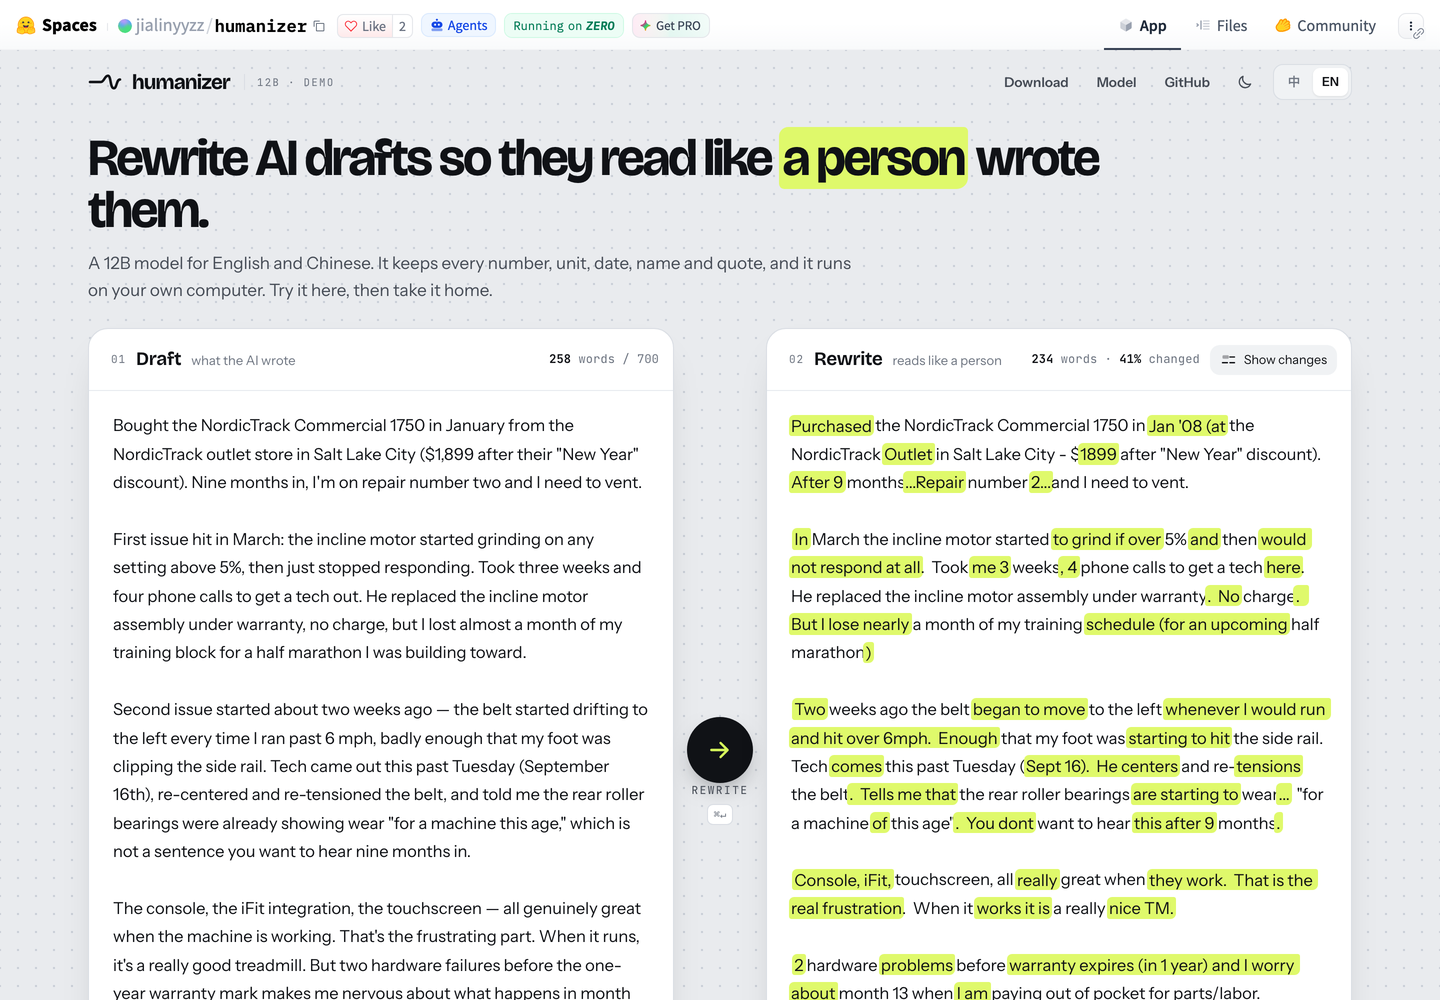
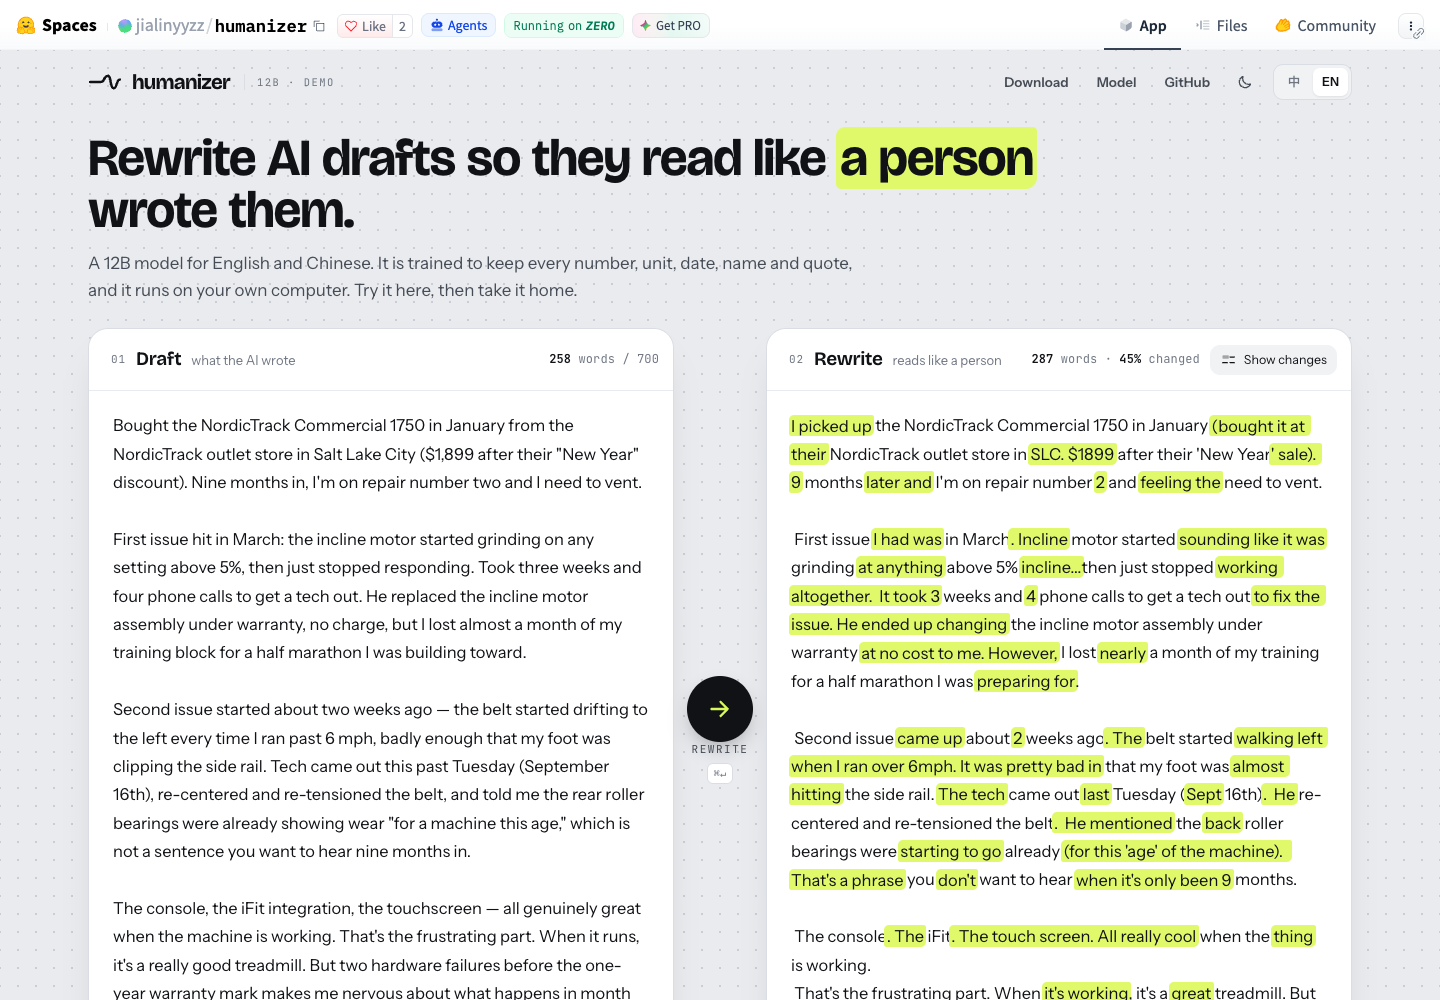
space: RLRt2 numbers and Q8_0 first-sample examples
Stat tiles, results, training and limitations follow the 2026-10-02
measurements. Instant examples are the Q8_0 file's first samples, built
by build_examples.py only from drafts whose first-pass verdict is clean
and that have no listed fix; numbers and names checked by hand.

Claude-Session: https://claude.ai/code/session_018dUyskQQUkZnxRhqQU9hXt

diff --git a/space/page.py b/space/page.py
@@ -108,7 +108,7 @@ def draft_head() -> str:
 
 
 def draft_foot(examples) -> str:
-    short = {"en-email": ("Email", "英文邮件"), "en-reddit": ("Reddit", "Reddit 帖"),
+    short = {"en-email": ("Email", "英文邮件"), "en-review": ("Film review", "影评"),
              "en-essay": ("Essay", "英文作文"), "zh-email": ("中文邮件", "中文邮件"),
              "zh-social": ("中文社交帖", "中文社交帖")}
     btns = "".join(f'<button type="button" class="sample-btn" data-sample="{e["id"]}">{L(*short[e["id"]])}</button>'
@@ -174,10 +174,10 @@ def examples_section(examples) -> str:
     return f"""<section class="sec" id="examples">
   <p class="eyebrow">{L("Examples", "示例")}</p>
   <h2 class="sec-title">{L("Real before and after", "改写前后，真实输出")}</h2>
-  {P("Drafts from our held-out evaluation set, never seen in training. The right side is the released model's first sample, not edited; only whitespace is normalised. "
+  {P("Drafts from our held-out evaluation set, never seen in training. The right side is the first sample from the Q8_0 file you download (llama.cpp, the app's settings), not edited; only whitespace is normalised. "
      "<span class='ins'>Highlight</span> = new wording, <span class='del'>strikethrough</span> = draft wording that was replaced. "
      "We picked these for readability from samples our fact judge passed. Across the whole set the model does sometimes change a detail; how often, and how small, is below.",
-     "草稿来自留出评测集，训练时从没见过。右边是发布版模型的第一发，未经任何修改，只统一了空白。"
+     "草稿来自留出评测集，训练时从没见过。右边是你下载的 Q8_0 文件（llama.cpp，和 App 相同的设置）的第一发，未经任何修改，只统一了空白。"
      "<span class='ins'>荧光笔</span> = 新写的，<span class='del'>删除线</span> = 被改掉的原文。"
      "这几篇是从事实判官判为通过的样本里挑的，为了好读；放到整个评测集上，模型偶尔会改错细节，多常见、错得多小，见下方。",
      "sec-lede")}
@@ -234,8 +234,8 @@ def local_section() -> str:
     <article class="card">
       <div class="card-head">{icon("chip")}<h3>{L("llama.cpp, one line", "llama.cpp 一行命令")}</h3><span class="badge soft">{L("any OS", "任何系统")}</span></div>
       {code_block(llama_cmd)}
-      {P("The first run downloads <code>humanizer-12b-Q8_0.gguf</code> (about 12.7 GB); on a 16 GB machine use <code>humanizer-12b-Q6_K.gguf</code>. This is a text-completion model, not a chat model: send the exact prompt from <code>prompt_format.json</code> to <code>/completion</code> with temperature 1.0, top_p 0.95, top_k 0, min_p 0.",
-         "第一次会下载 <code>humanizer-12b-Q8_0.gguf</code>（约 12.7 GB）；16 GB 内存的机器换成 <code>humanizer-12b-Q6_K.gguf</code>。这是文本续写模型，不是聊天模型：按 <code>prompt_format.json</code> 逐字拼好提示词，发到 <code>/completion</code>，temperature 1.0、top_p 0.95、top_k 0、min_p 0。国内下载慢可以在命令前加 <code>HF_ENDPOINT=https://hf-mirror.com</code>。")}
+      {P("The first run downloads <code>humanizer-12b-Q8_0.gguf</code> (about 12.7 GB); on a 16 GB machine use <code>humanizer-12b-Q6_K.gguf</code> (about 10.0 GB), or <code>humanizer-12b-Q4_K_M.gguf</code> (about 7.6 GB) if disk is tight. This is a text-completion model, not a chat model: send the exact prompt from <code>prompt_format.json</code> to <code>/completion</code> with temperature 1.0, top_p 0.95, top_k 0, min_p 0.",
+         "第一次会下载 <code>humanizer-12b-Q8_0.gguf</code>（约 12.7 GB）；16 GB 内存的机器换成 <code>humanizer-12b-Q6_K.gguf</code>（约 10.0 GB），硬盘紧张就用 <code>humanizer-12b-Q4_K_M.gguf</code>（约 7.6 GB）。这是文本续写模型，不是聊天模型：按 <code>prompt_format.json</code> 逐字拼好提示词，发到 <code>/completion</code>，temperature 1.0、top_p 0.95、top_k 0、min_p 0。国内下载慢可以在命令前加 <code>HF_ENDPOINT=https://hf-mirror.com</code>。")}
     </article>
   </div>
   <div class="docs">
@@ -261,24 +261,24 @@ def bar(label: str, n: int, total: int, strong: bool) -> str:
 
 def results_section() -> str:
     tiles = [
-        ("26 / 210", L("English drafts flagged as AI by Originality.ai", "篇英文草稿被 Originality.ai 判为 AI"),
-         L("API v3, AI Allowance 0% (its strictest setting), measured 2026-10-01, first sample of each draft. 88% judged human.",
-           "API v3，AI Allowance 0%（最严档），2026-10-01 实测，每篇取第 1 发。88% 判为人写。")),
-        ("369 / 420", L("English rewrites with no factual problem found", "篇英文改写，判官没挑出事实问题"),
-         L("Strict LLM judge (GLM-5.3), one vote per rewrite. Previous E4B release: 341 / 409. Where it did find a problem, nearly 9 in 10 fixes are a single word or phrase, like the name “Dame Aylin” coming out as “Dame Alyn”.",
-           "LLM 判官 GLM-5.3，每篇一票、从严。上一版 E4B：409 篇里 341 篇。有问题的，近 9 成改一个词或短语就好，比如人名“Dame Aylin”被写成了“Dame Alyn”。")),
-        ("135 / 204", L("Chinese rewrites with no factual problem found", "篇中文改写，判官没挑出事实问题"),
-         L("Chinese is still catching up with English. Where the judge found a problem, more than 9 in 10 fixes are a single word or phrase, like “3楼第二会议室” becoming “3楼二楼会议室”.",
-           "中文还在追赶英文。有问题的，9 成以上改一个词或短语就好，比如“3楼第二会议室”写成了“3楼二楼会议室”。")),
-        ("0.19", L("median reuse of the draft", "照抄程度中位数（复用率）"),
-         L("The larger of verbatim 5-gram copy and syntactic-skeleton reuse; lower means a deeper rewrite. Previous release: 0.31.",
-           "取逐字 5-gram 照抄和句法骨架复用里较大的那个，越低改得越深。上一版：0.31。")),
+        ("11 / 210", L("English drafts flagged as AI by Originality.ai", "篇英文草稿被 Originality.ai 判为 AI"),
+         L("API v3, AI Allowance 0% (its strictest setting), bf16 weights, measured 2026-10-02, first sample of each draft. 95% judged human. Previous release: 26 / 210. The Q8_0 file you download: 15 / 210, within noise of bf16.",
+           "API v3，AI Allowance 0%（最严档），bf16 权重，2026-10-02 实测，每篇取第 1 发。95% 判为人写。上一版：26 / 210。你下载的 Q8_0 文件：15 / 210，和 bf16 的差别在噪声范围内。")),
+        ("376 / 420", L("English rewrites with no factual problem found", "篇英文改写，判官没挑出事实问题"),
+         L("Strict LLM judge (GLM-5.3), one vote per rewrite, measured on the Q8_0 file you download. Previous release: 369 / 420; E4B: 341 / 409. Where it did find a problem, more than 9 in 10 fixes are a single word or phrase, like “The remaining 37 complaints” coming out as “The other 37% of complaints”.",
+           "LLM 判官 GLM-5.3，每篇一票、从严，测的是你下载的 Q8_0 文件。上一版：420 篇里 369 篇；E4B：409 篇里 341 篇。有问题的，9 成以上改一个词或短语就好，比如“The remaining 37 complaints”（剩下的 37 条投诉）被写成了“The other 37% of complaints”（另外 37% 的投诉）。")),
+        ("149 / 204", L("Chinese rewrites with no factual problem found", "篇中文改写，判官没挑出事实问题"),
+         L("Chinese is still catching up with English (previous release: 135 / 204). Where the judge found a problem, about 9 in 10 fixes are a single word or phrase, like “本月20日前后” (around the 20th of this month) becoming “20号以前” (before the 20th).",
+           "中文还在追赶英文（上一版：204 篇里 135 篇）。有问题的，约 9 成改一个词或短语就好，比如“本月20日前后”写成了“20号以前”。")),
+        ("0.165", L("median reuse of the draft", "照抄程度中位数（复用率）"),
+         L("The larger of verbatim 5-gram copy and syntactic-skeleton reuse; lower means a deeper rewrite. Previous release: 0.19; E4B: 0.31.",
+           "取逐字 5-gram 照抄和句法骨架复用里较大的那个，越低改得越深。上一版：0.19；E4B：0.31。")),
     ]
     tiles_html = "".join(f'<div class="tile"><div class="tile-num">{n}</div><div class="tile-label">{a}</div>'
                          f'<div class="tile-note">{b}</div></div>' for n, a, b in tiles)
     bars = (bar(L(f"{A(BLADER, 'blader/humanizer')} skill (v3.1.0, Claude Sonnet following its rules)",
                   f"{A(BLADER, 'blader/humanizer')} skill（v3.1.0，Claude Sonnet 按它的规则改）"), 60, 60, False)
-            + bar(L("humanizer 12B (this model)", "humanizer 12B（本模型）"), 10, 60, True))
+            + bar(L("humanizer 12B (this model, bf16)", "humanizer 12B（本模型，bf16）"), 4, 60, True))
     return f"""<section class="sec" id="results">
   <p class="eyebrow">{L("Results", "评测")}</p>
   <h2 class="sec-title">{L("What it does, measured", "实测结果")}</h2>
@@ -293,8 +293,8 @@ def results_section() -> str:
        "blader/humanizer 是 GitHub 上最火的去 AI 味 skill（5.3 万星）。两者是不同类型的工具（给通用模型的一套规则 vs. 专门微调的改写模型），所以这里比的是同一批输入上的结果，不是方法本身。",
        "fine")}
   </div>
-  {P("<b>Where it still fails:</b> the most templated genres. Social posts with emoji, hashtags or “1/ 2/” threads: 8 / 16 flagged. Formal policy memos: 5 / 13. Detectors change: this is what one detector said on one date, not a promise about any other detector or date.",
-     "<b>还会失败的地方：</b>最模板化的体裁。带 emoji、井号或“1/ 2/”连载的社交帖：8 / 16 被判 AI；正式政策备忘：5 / 13。检测器会更新，这只是一个检测器在某一天的结果，不代表其他检测器或其他时间。",
+  {P("<b>Where it still fails:</b> the most templated genres. Social posts with emoji, hashtags or “1/ 2/” threads: 3 / 16 flagged. Formal policy memos: 2 / 13. Detectors change: this is what one detector said on one date, not a promise about any other detector or date.",
+     "<b>还会失败的地方：</b>最模板化的体裁。带 emoji、井号或“1/ 2/”连载的社交帖：3 / 16 被判 AI；正式政策备忘：2 / 13。检测器会更新，这只是一个检测器在某一天的结果，不代表其他检测器或其他时间。",
      "sec-p")}
   <div class="callout">{P("<b>No AI detector was used anywhere in training:</b> not as a reward, not as a filter, not to pick a checkpoint. The model learns from how people actually write and from whether the facts survived. Detector numbers on this page are only an external check.",
                           "<b>训练全程没有用任何 AI 检测器：</b>不当奖励，不当过滤条件，也不用来挑检查点。模型只从两样东西里学：真人怎么写，以及事实有没有保住。本页的检测器数字只是外部核对。")}</div>
@@ -302,24 +302,24 @@ def results_section() -> str:
   <ol class="steps">
     <li>{P("<b>Supervised fine-tuning, 28,598 pairs</b> of AI draft → real human original. The human side is always real human writing: paper abstracts, government reports, student essays, company and mailing-list email, Reddit, Hacker News, Zhihu and more. The AI side is a draft that a frontier model wrote back from the human text.",
            "<b>监督微调（SFT），28,598 对</b>“AI 草稿 → 真人原文”。人写一侧全是真人文本：论文摘要、政府报告、学生作文、公司和邮件列表邮件、Reddit、Hacker News、知乎等；AI 一侧是前沿模型照着真人原文反写出来的草稿。")}</li>
-    <li>{P("<b>DPO, about 4,100 preference pairs</b>, chosen only on fact fidelity and on how much the output copies the draft (LLM judge GLM-5.3).",
-           "<b>DPO，约 4,100 对偏好对</b>，只按事实忠实度和照抄程度挑选（LLM 判官 GLM-5.3）。")}</li>
-    <li>{P("<b>Reinforcement learning (GRPO)</b> in two runs: 200 steps with a strict single-vote fact judge, then 150 steps of RLRt, where the reward reads the whole rewrite against the draft (penalising severe errors, invented content, changed meaning and dropped formatting) plus a copy penalty. The release is the final RLRt checkpoint.",
-           "<b>强化学习（GRPO）分两段：</b>先 200 步，用单票从严的事实判官；再 150 步 RLRt，奖励 = LLM 判官把改写和草稿对照通读、核对事实（严重错、编造、改了意思、丢格式都扣分），再加照抄惩罚。发布版本就是 RLRt 的最后一个检查点。")}</li>
+    <li>{P("<b>DPO, 3,918 preference pairs</b>, chosen only on fact fidelity and on how much the output copies the draft (LLM judge GLM-5.3).",
+           "<b>DPO，3,918 对偏好对</b>，只按事实忠实度和照抄程度挑选（LLM 判官 GLM-5.3）。")}</li>
+    <li>{P("<b>Reinforcement learning (GRPO) in three rounds, 500 steps in total</b> (200 + 150 + 150). Round 1 used a strict single-vote fact judge. In rounds 2 and 3 (RLRt, then RLRt2) the reward is an LLM judge that reads the whole rewrite against the draft (penalising severe errors, invented content, changed meaning and dropped formatting), plus a copy penalty; round 3 drew its drafts from a genre-balanced pool of 8,268. In all, RL generated 41,600 rewrites, each scored by an LLM judge against its draft. The release is the final RLRt2 checkpoint.",
+           "<b>强化学习（GRPO）分三轮，共 500 步</b>（200 + 150 + 150）。第一轮用单票从严的事实判官；第二、三轮（RLRt，然后 RLRt2）的奖励 = LLM 判官把改写和草稿对照通读、核对事实（严重错、编造、改了意思、丢格式都扣分），再加照抄惩罚；第三轮的草稿取自按体裁配平的 8,268 篇草稿池。RL 一共生成了 41,600 篇改写，每篇都由 LLM 判官对照草稿打分。发布版本就是 RLRt2 的最后一个检查点。")}</li>
   </ol>
 </section>"""
 
 
 def limits_section() -> str:
     items = [
-        ("<b>It can still change a detail.</b> A strict LLM judge found no factual problem in 369 of 420 English rewrites; where it found one, nearly 9 in 10 fixes are a single word or phrase, such as a misspelled name. Read the result before you send it, especially numbers, dates and names.",
-         "<b>细节还可能出错。</b>英文 420 篇改写里，从严的 LLM 判官在 369 篇里没挑出事实问题；有问题的，近 9 成改一个词或短语就好，比如拼错一个人名。发出去之前还是请读一遍，重点看数字、日期和人名。"),
-        ("<b>Chinese is still catching up with English:</b> no factual problem in 135 of 204 Chinese rewrites; where there was one, more than 9 in 10 fixes are a single word or phrase.",
-         "<b>中文还在追赶英文：</b>中文 204 篇改写里 135 篇判官没挑出事实问题；有问题的，9 成以上改一个词或短语就好。"),
-        ("<b>Templated genres still look machine-made to detectors:</b> social posts with emoji, hashtags or numbered threads (8/16 flagged) and formal policy memos (5/13).",
-         "<b>模板化体裁仍容易被检测器认出：</b>带 emoji、井号或编号连载的社交帖（8/16 被判 AI），正式政策备忘（5/13）。"),
-        ("<b>Formatting is not always kept.</b> 35 of 420 outputs dropped a format element. Paragraph breaks and list or heading markup sometimes change.",
-         "<b>格式不一定保得住。</b>420 发里有 35 发丢了格式要素；分段、列表和标题标记有时会变。"),
+        ("<b>It can still change a detail.</b> A strict LLM judge found no factual problem in 376 of 420 English rewrites; where it found one, more than 9 in 10 fixes are a single word or phrase, such as “The remaining 37 complaints” becoming “The other 37% of complaints”. Still, read the result before you send it, especially numbers, dates, names (and the direction of every claim).",
+         "<b>细节还可能出错。</b>英文 420 篇改写里，从严的 LLM 判官在 376 篇里没挑出事实问题；有问题的，9 成以上改一个词或短语就好，比如“The remaining 37 complaints”（剩下的 37 条投诉）被写成了“The other 37% of complaints”（另外 37% 的投诉）。发出去之前还是请读一遍，重点看数字、日期、人名（和每个论断的方向）。"),
+        ("<b>Chinese is still catching up with English:</b> no factual problem in 149 of 204 Chinese rewrites; where there was one, about 9 in 10 fixes are a single word or phrase, such as “本月20日前后” (around the 20th of this month) becoming “20号以前” (before the 20th).",
+         "<b>中文还在追赶英文：</b>中文 204 篇改写里 149 篇判官没挑出事实问题；有问题的，约 9 成改一个词或短语就好，比如“本月20日前后”写成了“20号以前”。"),
+        ("<b>Templated genres still look machine-made to detectors:</b> social posts with emoji, hashtags or numbered threads (3/16 flagged) and formal policy memos (2/13).",
+         "<b>模板化体裁仍容易被检测器认出：</b>带 emoji、井号或编号连载的社交帖（3/16 被判 AI），正式政策备忘（2/13）。"),
+        ("<b>Formatting is not always kept.</b> 28 of 420 outputs dropped a format element. Paragraph breaks and list, heading or code markup sometimes change.",
+         "<b>格式不一定保得住。</b>420 发里有 28 发丢了格式要素；分段、列表、标题和代码标记有时会变。"),
         ("<b>Register can drift in casual genres.</b> In Reddit-style posts it sometimes adds slang or profanity that wasn't in the draft.",
          "<b>随意体裁里语气会跑。</b>Reddit 一类的帖子里，它有时会加上原文没有的俚语或粗口。"),
         ("<b>Detectors change.</b> The detection numbers above are one measurement on one date. Nothing here guarantees a result on any detector.",

diff --git a/space/build_examples.py b/space/build_examples.py
@@ -3,10 +3,14 @@
 
     python3 space/build_examples.py
 
-Each example is a held-out draft and the released 12B model's FIRST sample for it, unedited
-(eval/outputs/humanizer-12b_300{a,b}.json, index 0). Only whitespace is normalised for display.
-The fact-judge verdict for that same sample comes from eval/fidelity/. Picked for readability among
-drafts whose verdict is clean; across the whole set the model does make fact errors.
+Each example is a held-out draft and the FIRST sample for it from the Q8_0 file you download
+(humanizer-12b-Q8_0.gguf, plain llama.cpp sampling with the app's settings), unedited:
+eval/outputs/humanizer-12b-Q8_0_300{a,b}.json, index 0. Only whitespace is normalised for display.
+The fact-judge verdict for that same sample comes from eval/fidelity/humanizer-12b-Q8_0_{en,zh}_300{a,b}.json;
+a pick must be clean on that first pass (English: severity "none", facts kept, nothing added, meaning
+unchanged; Chinese: facts kept, nothing added) and must not appear in the second-pass fix list
+(eval/fidelity/humanizer-12b-Q8_0_fix-sizes.jsonl). Picked for readability among clean drafts; across
+the whole set the model does make fact errors.
 """
 import json
 import re
@@ -15,16 +19,17 @@ from pathlib import Path
 
 HERE = Path(__file__).resolve().parent
 EVAL = HERE.parent / "eval"
+RUN = "humanizer-12b-Q8_0"      # the released file; eval/outputs/previous-12b-RLRt_* is the previous release
 sys.path.insert(0, str(HERE))
 import hz_text  # noqa: E402
 
 PICKS = [
-    ("en-email", "email_work_00_luna", "Work email", "英文工作邮件"),
-    ("en-reddit", "reddit_post_10_sonnet", "Reddit post", "Reddit 帖"),
+    ("en-email", "email_work_09_luna", "Work email", "英文工作邮件"),
+    ("en-review", "review_product_02_luna", "Film review", "影评"),
     ("en-essay", "essay_student_00_glm", "Student essay", "学生作文"),
-    ("en-forum", "forum_answer_07_luna", "Forum answer with code", "带代码的论坛回答"),
-    ("zh-email", "zh_email_15_sonnet", "Chinese work email", "中文工作邮件"),
-    ("zh-social", "zh_social_09_glm", "Chinese social post", "中文社交帖"),
+    ("en-forum", "forum_answer_04_luna", "Forum answer", "论坛回答"),
+    ("zh-email", "zh_email_08_luna", "Chinese email to a landlord", "给房东的中文邮件"),
+    ("zh-social", "zh_social_12_glm", "Chinese social post", "中文社交帖"),
 ]
 WRITERS = {"glm": "GLM-5.3", "luna": "GPT-5.6 luna", "sonnet": "Claude Sonnet"}
 
@@ -41,20 +46,22 @@ def tidy(s: str) -> str:
 def main():
     outputs, verdicts = {}, {}
     for half in "ab":
-        for case, samples in json.load(open(EVAL / f"outputs/humanizer-12b_300{half}.json")).items():
+        for case, samples in json.load(open(EVAL / f"outputs/{RUN}_300{half}.json")).items():
             outputs[case] = (half, samples)
         for lang in ("en", "zh"):
-            for r in json.load(open(EVAL / f"fidelity/humanizer-12b_{lang}_300{half}.json")):
+            for r in json.load(open(EVAL / f"fidelity/{RUN}_{lang}_300{half}.json")):
                 verdicts[(r["case"], r["i"])] = r["verdict"]
+    needs_fix = {(r["case"], r["i"]) for r in map(json.loads, open(EVAL / f"fidelity/{RUN}_fix-sizes.jsonl"))}
 
     out = []
     for ex_id, case, genre_en, genre_zh in PICKS:
         half, samples = outputs[case]
         draft = tidy((EVAL / f"drafts/300{half}/{case}.txt").read_text(encoding="utf-8"))
         rewrite = tidy(samples[0]["text"])
-        v = verdicts[(case, 0)]
-        clean = bool(v.get("facts_all_kept")) and not v.get("added_content") and not v.get("meaning_changed") \
-            and v.get("severity", "none") in ("none", None)
+        v = verdicts[(case, 0)] or {}
+        clean = v.get("facts_all_kept") is True and not v.get("added_content") and (case, 0) not in needs_fix
+        if not case.startswith("zh_"):
+            clean = clean and not v.get("meaning_changed") and v.get("severity") == "none"
         assert clean, (case, v)
         nums = hz_text.numbers(draft)
         out.append({

diff --git a/space/README.md b/space/README.md
@@ -30,10 +30,12 @@ before/after pairs from the held-out evaluation set are on the page and need no 
 ([中文](https://github.com/sgaofen/humanize-model/blob/main/docs/USAGE.zh.md)) and
 [AGENTS.md](https://github.com/sgaofen/humanize-model/blob/main/AGENTS.md).
 
-**Measured, not promised:** on our 210 English evaluation drafts, Originality.ai (AI Allowance 0%,
-2026-10-01) flagged 26; a strict LLM judge found no factual problem in 369 of 420 English rewrites,
-and nearly 9 in 10 of the fixes it did list are a single word or phrase. Chinese is still catching up
-(no factual problem in 135 of 204). Still, read every number, date and name before you send it.
+**Measured, not promised:** 95% judged human. On our 210 English evaluation drafts, Originality.ai
+(AI Allowance 0%, its strictest setting; bf16 weights, 2026-10-02) flagged 11 as AI (the previous
+release: 26). On the Q8_0 file you download, a strict LLM judge found no factual problem in 376 of 420
+English rewrites, and more than 9 in 10 of the fixes it did list are a single word or phrase. Chinese
+is still catching up (no factual problem in 149 of 204). Still, read the result before you send it,
+especially numbers, dates, names (and the direction of every claim).
 
 **API:** `gradio_client` → `Client("jialinyyzz/humanizer").predict(draft, api_name="/humanize")` returns
 the rewrite plus copy rate and any numbers missing from it.
